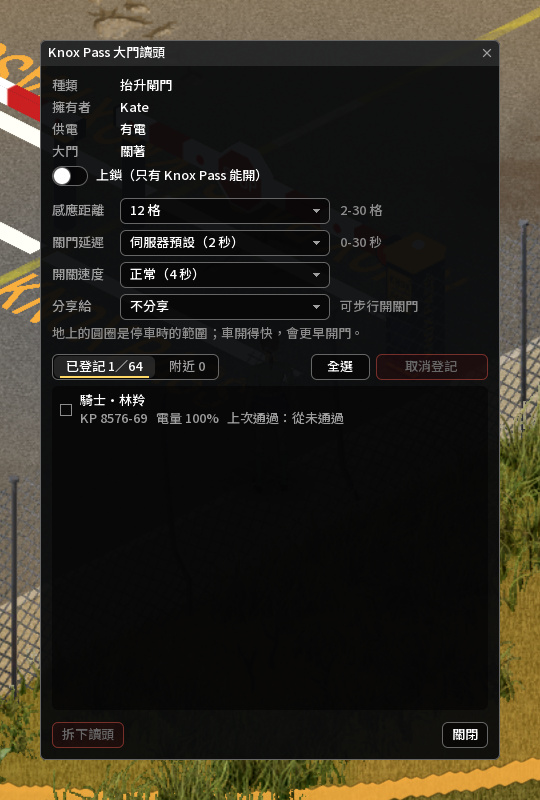
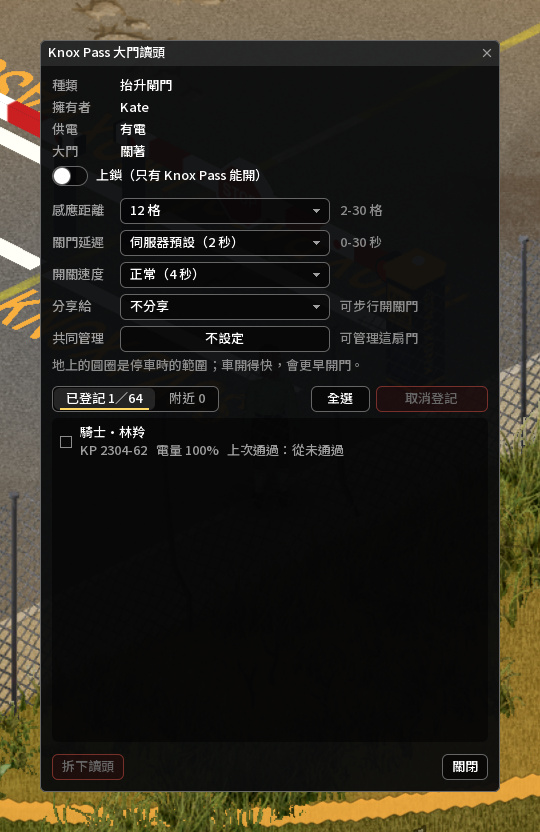
發布 42.21.0-0.5.0
共同管理者、安全屋外的讀頭沙盒選項、地圖手錶的 Knox Pass 感應模組；物品說明分行、下拉清單不透明。簡介三語加上選裝地圖手錶與新功能，兩份指南補共同管理者、感應模組、新沙盒選項與常見問題；指南與作品頁的 05、09、15 重拍。

diff --git a/STEAM_GUIDE_EN.md b/STEAM_GUIDE_EN.md
@@ -1,7 +1,7 @@
 <!-- 指南網址：https://steamcommunity.com/sharedfiles/filedetails/?id=3817842691 -->
 <!-- Steam guide source (English): the full reference for this mod; the Workshop description only summarizes. Format and sync: pz-family-docs/release.md「完整說明：Steam 指南」 -->
 <!-- 標題：📖 Knox Pass Mod Guide: Tags, Readers & Hands-free Gates -->
-<!-- 摘要：Illustrated guide to the Minidoracat Knox Pass mod: the Vehicle Tag, the Gate Reader, shell colors, boom barriers and gates you build, hands-free opening and closing, the gate lock and opening on foot, how to get them, plus server settings and FAQ. -->
+<!-- 摘要：Illustrated guide to the Minidoracat Knox Pass mod: the Vehicle Tag, the Gate Reader, co-managers, the Map Watch sensor module, shell colors, boom barriers and gates you build, hands-free opening and closing, the gate lock and opening on foot, how to get them, plus server settings and FAQ. -->
 === 🚀 Quick start
 [b]繁體中文版：[/b][url=https://steamcommunity.com/sharedfiles/filedetails/?id=3817842603]感應大門 MOD 完整說明[/url]
 
@@ -43,19 +43,20 @@ Knox Pass lets you drive home without getting out: put a tag in the car and a re
 === 🧰 Gate Reader
 [list]
 [*] [b]Where it fits[/b]: map doors, fence gates, double doors, garage doors, player-built doors and gates, and Knox Pass's own roll-up garage doors, two-story roll-up doors and two-story gates (see "Build your own gates").
-[*] [b]Installing[/b]: right-click the gate with the reader and a screwdriver. Whoever installs it owns it.
+[*] [b]Installing[/b]: right-click the gate with the reader and a screwdriver. Whoever installs it owns it. The server can limit readers to your own safehouse (see "Server settings").
 [*] [b]Where it shows[/b]: on the gate post; on the face of the pillar for two-story gates, and on top of the cabinet for boom barriers and double boom barriers. It doesn't block people or cars.
-[*] [b]Removing[/b]: the owner can take the reader back. If Knox Pass has the gate open, it closes it first and restores the original lock.
+[*] [b]Removing[/b]: the owner or a server admin can take the reader back with a screwdriver. If Knox Pass has the gate open, it closes it first and restores the original lock. Co-managers can't remove it.
 [/list]
 [h3]Management window[/h3]
 {{img:05-manage-window-en.jpg}}
 [list]
+[*] [b]Who can open it[/b]: the owner, co-managers and server admins. For anyone else the window closes right away and says why.
 [*] [b]It shows[/b]:
 [list]
 [*] gate type, owner, power, lock
-[*] this gate's read range, close delay, speed and sharing
-[*] "Registered" tab: registered cars (charge, last pass), most recent pass first
-[*] "Nearby" tab: unregistered cars with a tag within 15 tiles, nearest first
+[*] this gate's read range, close delay, speed, sharing and co-managers
+[*] "Registered" tab: registered cars and watch modules (charge, last pass), most recent pass first; 64 entries at most, cars and modules together
+[*] "Nearby" tab: unregistered cars with a tag and people wearing a sensor module within 15 tiles, nearest first
 [/list]
 [*] [b]Read range[/b]: while the window is open, an amber circle on the ground shows this gate's read range (the range for a car standing still; faster cars open it sooner).
 [*] [b]Several at once[/b]: each car has a checkbox; click a car to check it, or "Select all" for the whole tab. "Register (N)" or "Unregister (N)" handles them in one go; unregistering asks first.
@@ -63,12 +64,22 @@ Knox Pass lets you drive home without getting out: put a tag in the car and a re
 {{img:15-range-circle-en.jpg}}
 [h3]Per-gate settings[/h3]
 [list]
-[*] [b]Read range and close delay[/b]: the owner or an admin picks them from two dropdowns in the window, limited to what the server allows (2–30 tiles and 0–30 seconds by default).
+[*] [b]Read range and close delay[/b]: the owner, a co-manager or an admin picks them from two dropdowns in the window, limited to what the server allows (2–30 tiles and 0–30 seconds by default).
 [*] [b]Server default[/b]: follows the sandbox setting.
 [*] [b]If the server narrows the limits[/b]: gates that were set follow the new limits and keep their value.
 [*] [b]Speed[/b]: boom barriers, double boom barriers, two-story roll-up doors and two-story gates can be set to [b]Normal (4 s)[/b] or [b]Fast (2.5 s)[/b] under "Speed", and every player sees the same speed.
 [*] [b]Fixed speed[/b]: one-story roll-up doors and vanilla doors; the dropdown says "Not adjustable".
 [*] [b]Share with[/b]: pick [b]Faction[/b], [b]Safehouse[/b] or [b]Faction + safehouse[/b] to let teammates open and close this gate on foot without a tag (see "Opening and closing on foot"). Not shared by default.
+[/list]
+[h3]Co-managers[/h3]
+[list]
+[*] [b]Open the list[/b]: press the button on the "Co-managers" row of the management window.
+[*] [b]Adding someone[/b]: type a player account in the search box, pick them from the dropdown and press "Add"; up to 8 people.
+[*] [b]Who you can find[/b]: online players show up after typing part of the account; offline players need the full account (same upper/lower case); an account that has never been online on this server can't be added, so wait until they log in once.
+[*] [b]Your faction[/b]: turn on "Members of faction "…"" and everyone in the owner's faction counts as a co-manager; people who join later count too, and leaving the faction ends it.
+[*] [b]What they can do[/b]: open the management window, change settings, register and unregister, lock, open and close on foot, and repaint the reader.
+[*] [b]What they can't[/b]: remove the reader or change the co-manager list; only the owner and server admins can.
+[*] Works in multiplayer only.
 [/list]
 === 🧰 Shell colors and repainting
 {{img:11-shell-colors-en.jpg}}
@@ -95,7 +106,7 @@ Knox Pass lets you drive home without getting out: put a tag in the car and a re
 [list]
 [*] [b]In your inventory[/b]: right-click a tag or reader you carry (bags count) → "Repaint" → pick a color. Colors you lack paint or a paintbrush for are grayed out; hover to see what's missing.
 [*] [b]A repainted tag[/b]: keeps its charge and its registration at every gate, so it opens the same gates.
-[*] [b]A reader on a gate[/b]: the owner or an admin right-clicks the gate → Knox Pass → "Repaint"; your character walks to the gate and paints it, and registrations stay as they are.
+[*] [b]A reader on a gate[/b]: the owner, a co-manager or an admin right-clicks the gate → Knox Pass → "Repaint"; your character walks to the gate and paints it, and registrations stay as they are.
 [*] [b]A tag in a car[/b]: the windshield shows its color. To repaint it, remove it in the mechanics panel first, then install it again.
 [*] [b]Can't be repainted[/b]: the built-in reader of a boom barrier or double boom barrier.
 [/list]
@@ -205,7 +216,7 @@ Knox Pass lets you drive home without getting out: put a tag in the car and a re
 {{img:06-gate-menu-en.jpg}}
 [h3]Gate lock[/h3]
 [list]
-[*] [b]Turning it on[/b]: the owner can turn on "Lock (only Knox Pass opens it)" in the right-click menu or the window.
+[*] [b]Turning it on[/b]: the owner, a co-manager or an admin can turn on "Lock (only Knox Pass opens it)" in the right-click menu or the window. When the server doesn't allow locking outside safehouses, the option is grayed out for gates outside one and says why; a gate that is already locked can still have its lock turned off.
 [*] [b]Once locked[/b]: it can't be opened bare-handed, and zombies that open doors can't open it either.
 [*] [b]Opening and closing[/b]: boom barriers, garage roll-up doors, two-story gates and garage doors stay locked while open, so without the key use "Close with Knox Pass" to shut them; other gates are unlocked to open and locked again once closed.
 [*] [b]Original keys[/b]: a house door's original key keeps working, so whoever holds that key can still open it.
@@ -215,10 +226,29 @@ Knox Pass lets you drive home without getting out: put a tag in the car and a re
 [h3]Opening and closing on foot[/h3]
 [list]
 [*] [b]Open with Knox Pass[/b]: right-click → Knox Pass → "Open with Knox Pass".
-[*] [b]Who can use it[/b]: the owner, admins, teammates the owner shares the gate with, and anyone carrying a registered, charged tag.
+[*] [b]Who can use it[/b]: the owner, co-managers, admins, teammates the owner shares the gate with, anyone carrying a registered, charged tag, and anyone wearing a registered watch sensor module.
 [*] [b]Sharing with teammates[/b]: once the owner picks a faction or safehouse under "Share with" in the management window, the leader and members of the owner's faction, or anyone in a safehouse with the owner, can use it; it stops when the owner leaves that faction or safehouse. Teammates can only open and close the gate; they can't register cars or change settings. Multiplayer only.
 [*] [b]At least 5 seconds[/b]: a gate opened on foot stays open at least 5 seconds, so you can walk through even with a very short close delay.
 [*] [b]Close with Knox Pass[/b]: while the gate stands open (for example after someone opened it with the original key), right-click → Knox Pass → "Close with Knox Pass"; it closes and locks again. The same people who can open it on foot can use it.
+[/list]
+=== 🧰 Map Watch sensor module
+Needs [url=https://steamcommunity.com/sharedfiles/filedetails/?id=3816406671]Minidoracat MiniMap - Map Watch[/url] (42.21.0-0.3.0 or later); without the Map Watch nothing changes.
+[list]
+[*] [b]Crafting[/b]: "Craft Knox Pass Sensor Module (for the Map Watch)"; see "Getting them".
+[*] [b]Into the watch[/b]: it goes in a standard slot of the Map Watch and adds 10% power use.
+[*] [b]Registering[/b]: with the wearer within 15 tiles of the gate, check "Watch module (name)" on the "Nearby" tab of the management window and press "Register".
+[*] [b]Walk up and it opens[/b]: walk toward the gate wearing a registered module and it opens within 3 tiles; after you pass it closes with the gate's close delay. Standing still or walking along the gate doesn't open it.
+[*] [b]Driving counts too[/b]: if the driver wears a registered module, the gate opens for any car.
+[*] [b]Right-click knows it[/b]: "Open with Knox Pass" and "Close with Knox Pass" accept the module you wear.
+[*] [b]When it does nothing[/b]: the watch isn't worn, has no power, or the module's slot is disabled.
+[*] [b]When the gate can't open[/b]: if the reader has no power or the doorway is blocked, a note above your head and at the top right says why, once per gate every 30 seconds.
+[*] [b]Registered list[/b]: shows who is wearing it; when nobody is, who passed last and when. It never shows where the module is.
+[*] [b]Per gate[/b]: turn off "Registered watch modules open it on approach" in the management window and walking no longer opens that gate; driving and right-click still accept the module.
+[/list]
+[h3]Map markers[/h3]
+[list]
+[*] The minimap and the world map mark the gates your module opens.
+[*] In the map settings, the "Knox Pass" section under "Add-ons" turns the markers off, sets their size, and chooses whether to show gate types.
 [/list]
 === 🧰 Getting them
 {{img:08-craft-recipes-en.jpg}}
@@ -228,11 +258,13 @@ All crafted with a screwdriver:
 [tr][td]Vehicle Tag[/td][td]Electrical 2[/td][td]A pager or TV remote, 2 electronics scrap, 1 battery[/td][td]Gas station storage, car supply stores, mechanic electrical shelves, electronics stores[/td][/tr]
 [tr][td]Gate Reader[/td][td]Electrical 4[/td][td]A radio receiver, 3 electronics scrap, 2 electrical wires[/td][td]Electrician tool boxes, electronics crates, hardware stores, mechanics[/td][/tr]
 [tr][td]Boom Barrier Kit[/td][td]Electrical 4[/td][td]1 Gate Reader (any color), 2 iron pipes, 1 steel sheet, 2 electrical wires[/td][td]Crafting only; it isn't found as loot[/td][/tr]
+[tr][td]Knox Pass Sensor Module[/td][td]Electrical 3[/td][td]1 Vehicle Tag (any color), 2 electronics scrap[/td][td]Crafting only, with the Map Watch installed[/td][/tr]
 [/table]
 [list]
 [*] [b]Looted color[/b]: random.
 [*] [b]Craft in color[/b]: add one use of paint and a paintbrush to craft a tag or reader in that color (see "Shell colors and repainting").
 [*] [b]Gates you build[/b]: roll-up garage doors, two-story roll-up doors, two-story gates and double boom barriers all come from the build menu; see "Build your own gates" for materials and skills.
+[*] [b]Sensor module[/b]: only craftable with the Map Watch installed, and not when the server turns off "Registered watch modules open gates on approach".
 [/list]
 === ⚙ Server settings
 {{img:09-sandbox-options-en.jpg}}
@@ -249,6 +281,9 @@ Sandbox page "Minidoracat Knox Pass":
 [tr][td]Vehicle tag drain multiplier (percent)[/td][td]100%[/td][td]0–500%[/td][/tr]
 [tr][td]Allow crafting Knox Pass items[/td][td]On[/td][td][/td][/tr]
 [tr][td]Spawn Knox Pass items in world loot[/td][td]On[/td][td][/td][/tr]
+[tr][td]Readers outside safehouses[/td][td]No limit[/td][td]No limit / No locking / No installing[/td][/tr]
+[tr][td]Registered watch modules open gates on approach[/td][td]On[/td][td][/td][/tr]
+[tr][td]Watch module range (tiles)[/td][td]3[/td][td]1–8[/td][/tr]
 [/table]
 [list]
 [*] [b]Reader range[/b]: the range around the gate while the car stands still; owners can set each gate to a value within the limits.
@@ -257,6 +292,9 @@ Sandbox page "Minidoracat Knox Pass":
 [*] [b]Self-driving early open distance[/b]: when a car under Minidoracat AutoDrive heads for the gate (the gate within about 12 degrees of its direction of travel), the gate opens once the car is this close. The server must have the gate's area loaded first, so in practice it opens about 70–130 tiles out. 0 treats it like any other car.
 [*] [b]Gate readers need power[/b]: grid power or a generator both count, and outdoor gates do get grid power.
 [*] [b]Tag drain multiplier[/b]: 0 means it never runs out.
+[*] [b]Readers outside safehouses[/b]: applies when a gate isn't in the reader owner's safehouse, multiplayer only. "No locking" = the Knox Pass lock can't be turned on, opening works as usual; "No installing" = readers only go in your own safehouse. Gates already locked stay locked, and the owner, a co-manager or an admin can turn the lock off. This stops people from putting a reader on someone else's door and locking it.
+[*] [b]Watch modules[/b]: need the Map Watch. When off, walking doesn't open gates and the module can't be crafted; driving and right-click opening still accept the module. The range is how close to the gate line it opens.
+[*] [b]Server admins[/b]: roles that can manage safehouses (moderator and admin by default) can manage every reader; if the server owner changed role permissions, the actual permissions apply.
 [/list]
 === ⚠ Known limitations
 [list]
@@ -291,6 +329,8 @@ Check that:
 [h3]Can other players open my gate?[/h3]
 [list]
 [*] Only the tags you registered can; if you share the gate with your faction or safehouse in the management window, those teammates can open and close it on foot too.
+[*] Co-managers you add can open and close it, and change its settings and registrations.
+[*] Anyone wearing a watch sensor module registered at this gate opens it by walking up.
 [*] Once locked, neither bare hands nor zombies can open it, except someone holding that door's original key.
 [*] An unlocked gate can still be opened by hand as usual.
 [/list]
@@ -299,15 +339,26 @@ Check that:
 [*] Not one with the Knox Pass lock on.
 [*] An unlocked gate can be opened by zombies when the server lets zombies open doors, as in vanilla.
 [/list]
+[h3]My teammate can't open the management window?[/h3]
+[list]
+[*] Only the owner, co-managers and server admins can; sharing with a faction or safehouse only covers opening and closing on foot.
+[*] To manage the gate together, add them under "Co-managers".
+[/list]
+[h3]Can't find a teammate's account?[/h3]
+[list]
+[*] Offline players need the full account (same upper/lower case).
+[*] An account that has never been online on this server can't be found; wait until they log in once.
+[/list]
 [h3]Is it safe in multiplayer?[/h3]
 [list]
-[*] Opening, closing, locking and registering are all checked by the server, and the registrations live only on the server.
+[*] Opening, closing, locking, registering and the co-manager list are all checked by the server, and that data lives only on the server.
 [/list]
 [h3]Removing this mod?[/h3]
 [list]
 [*] First turn off "Lock (only Knox Pass opens it)" on every locked gate, or take its reader back; otherwise the gate stays locked after removal and can only be broken down unless someone has its original key.
 [*] Also dismantle Knox Pass barriers, roll-up doors and gates first, as they may not display or work after removal.
 [*] Tags in cars and all other Knox Pass items disappear.
+[*] Take sensor modules out of Map Watches first, too; after removal they can't be taken out and keep the slot taken.
 [/list]
 === 💬 Feedback
 [list]

diff --git a/CHANGELOG.md b/CHANGELOG.md
@@ -12,13 +12,13 @@
 
 格式基於 [Keep a Changelog](https://keepachangelog.com/zh-TW/1.1.0/)，版本號遵循 `{PZ版本}-{主版本}.{次版本}.{修訂}` 格式。
 
-## [Unreleased]
+## [42.21.0-0.5.0] - 2026-10-13
 
 ### 新增
 
 - **共同管理者：讓隊友一起管理大門**：讀頭管理視窗多了「共同管理」，擁有者或伺服器管理員可以加入最多 8 位共同管理者，也可以交給擁有者自己的陣營（之後加入陣營的人也算，離開陣營就不算）。加人時在搜尋框輸入玩家帳號，下拉只列出伺服器上確實存在的玩家：上線中的玩家打一部分帳號就找得到，離線的玩家要打完整帳號（大小寫相同）；從沒在伺服器上線過的帳號加不進來，請等對方上線一次。共同管理者能打開管理視窗、改設定、登記車輛、上鎖與步行開關門，但不能拆讀頭，也不能改共同管理者名單。多人模式才有作用。
 - **伺服器可以限制安全屋外的讀頭**：沙盒選項新增「安全屋外的讀頭」：不限制（預設，跟以前一樣）、不能上鎖、不能安裝。只在門不在讀頭擁有者的安全屋裡時套用：選「不能上鎖」時安全屋外的門開不了 Knox Pass 門鎖，選「不能安裝」時只能在自己的安全屋裡裝讀頭；右鍵選單與管理視窗會先變灰並寫出原因，已經上鎖的門照樣能關掉門鎖。可用來防止有人在別人的門上裝讀頭再上鎖。多人模式才有作用。
-- **地圖手錶的 Knox Pass 感應模組：戴著錶走近大門就開**：裝了 Minidoracat 地圖手錶時，可以用一顆感應盒加兩個電子零件做出「Knox Pass 感應模組」（電工 3 級，配方名稱寫著「地圖手錶用」），裝進手錶的槽位。在大門讀頭管理視窗的「附近」勾選 15 格內戴著模組的人，登記後，戴著這顆模組走向那扇門、離門 3 格內門就會自己打開，走過去照關門延遲關上；站著不動或沿著門走不會開。開車時駕駛戴著也算，任何一台車都行；右鍵「用 Knox Pass 開門」也認得它。手錶沒戴、沒電或槽位停用時模組沒有作用。「已登記」會寫出誰正戴著，沒人戴時寫上次是誰、何時通過，不會顯示模組在哪裡。擁有者可以替每扇門關掉「已登記的手錶模組走近就開」；伺服器可以在沙盒整個關掉，或調整感應距離（1 到 8 格，預設 3）。小地圖與世界地圖會標出你戴著的模組能開的大門，可以在地圖設定「擴充功能」的 Knox Pass 分類關掉或調整大小。沒裝地圖手錶時一切照舊。
+- **地圖手錶的 Knox Pass 感應模組：戴著錶走近大門就開**：裝了 Minidoracat 地圖手錶（42.21.0-0.3.0 以上）時，可以用一顆感應盒加兩個電子零件做出「Knox Pass 感應模組」（電工 3 級，配方名稱寫著「地圖手錶用」），裝進手錶的槽位。在大門讀頭管理視窗的「附近」勾選 15 格內戴著模組的人，登記後，戴著這顆模組走向那扇門、離門 3 格內門就會自己打開，走過去照關門延遲關上；站著不動或沿著門走不會開。開車時駕駛戴著也算，任何一台車都行；右鍵「用 Knox Pass 開門」也認得它。手錶沒戴、沒電或槽位停用時模組沒有作用。「已登記」會寫出誰正戴著，沒人戴時寫上次是誰、何時通過，不會顯示模組在哪裡。擁有者可以替每扇門關掉「已登記的手錶模組走近就開」；伺服器可以在沙盒整個關掉，或調整感應距離（1 到 8 格，預設 3）。小地圖與世界地圖會標出你戴著的模組能開的大門，可以在地圖設定「擴充功能」的 Knox Pass 分類關掉或調整大小。沒裝地圖手錶時一切照舊。
 
 ### 變更
 
@@ -27,8 +27,11 @@
 - **裝拆讀頭要帶螺絲起子**：伺服器會再確認身上有沒壞的螺絲起子才裝上或拆下讀頭（強化了伺服器端驗證）。
 - **開不了門時寫出怎麼排除**：讀頭沒電時提示大門要接上電網或發電機；門口被擋時提示有人或東西擋住、或門釘了木板。戴著模組走近卻開不了時，頭上與右上會提示一次原因（同一扇門 30 秒一次）。提示框最多顯示 5 行，英文的長句不會再被截掉。
 - **登記上限改成車與手錶模組合計 64 項**：已登記清單裡車與模組放在一起，照最近通過排序；登記、取消登記的提示改說「項」。
-- **物品說明分行顯示**：感應盒、讀頭、抬升閘門組件與感應模組的說明，英文、繁中、簡中、日文改成分行（其他語言原本就分行），滑過物品時的提示框不會再拉成一長條（英文的閘門組件原本約 1300 像素寬）。
-- **管理視窗的下拉清單改成不透明**：展開感應距離、關門延遲、開關速度或分享對象時，不會再透出底下按鈕與說明的字。
+
+### 修正
+
+- **物品說明拉成一長條**：英文、繁中、簡中、日文滑過感應盒、讀頭、抬升閘門組件時，說明擠成一整行，提示框很寬（英文的閘門組件約 1300 像素）。現在照其他語言分行顯示。
+- **管理視窗的下拉清單透出底下的字**：展開感應距離、關門延遲、開關速度或分享對象時，清單是半透明的，看得到底下按鈕與說明的字。現在改成不透明。
 
 > 技術要點：共同管理者存在伺服器的讀頭帳本（每扇門一份帳號名單與一個陣營開關），加入時記下伺服器看過的 SteamID。伺服器另外記下上線過的帳號（只增不減），用來判斷帳號存在；更新前就裝了讀頭的擁有者會先放進去。管理員判定用角色的 CanSetupSafehouses（和原版安全屋加人介面同一個判斷）。「安全屋外的讀頭」看大門所在格是否在讀頭擁有者（安裝時是安裝者）身為屋主或成員的安全屋裡。手錶模組要地圖手錶 API 2 版（讀模組的物品資料）：模組的憑證是物品資料裡的序號，裝進手錶、拆下來都跟著走；伺服器只認戴在身上、手錶有電、槽位有效的模組，登記時也重查戴著它的人在 15 格內。伺服器只把你戴著的模組登記過的門推給你自己（小地圖與 `KnoxPassAPI.willOpenFor` 用）；`willOpenFor` 認得駕駛戴著的模組，模組登記了這扇門但手錶沒作用時原因是 `WatchOff`。
 

diff --git a/STEAM_CHANGELOG.md b/STEAM_CHANGELOG.md
@@ -1,22 +1,28 @@
-[h1]Minidoracat Knox Pass for B42 42.21.0-0.4.0[/h1]
-[i]2026-10-12[/i]
+[h1]Minidoracat Knox Pass for B42 42.21.0-0.5.0[/h1]
+[i]2026-10-13[/i]
 
 [h3]✨ 新增[/h3]
 [list]
-[*] [b]分享給隊友[/b]：右鍵大門 → Knox Pass → 管理讀頭，「分享給」可以選同陣營、同安全屋或兩者。選了之後，擁有者陣營的成員、或和擁有者同一間安全屋的人，不用帶感應盒也能用右鍵「用 Knox Pass 開門」「用 Knox Pass 關門」，門鎖照樣擋住其他人。
-[*] [b]隊友只能開關門[/b]：登記車輛、門鎖與各項設定仍只有擁有者和管理員能改，開車自動開門也照舊只認登記過的感應盒。擁有者離開那個陣營或安全屋，原本的隊友就不能再開。預設不分享，多人模式才有作用。
-[*] [b]一次登記或取消登記好幾台車[/b]：管理視窗的每台車左邊多了勾選框，點一下勾選，「全選」一次勾起整頁。勾好後按「登記（N）」或「取消登記（N）」一次處理，取消登記前會先問一次。
-[*] [b]沒登記成功會說原因[/b]：有車太遠或登記已滿 64 台時，提示會寫出成功幾台、沒成功幾台和原因。
-[/list]
-
-[h3]🔧 修正[/h3]
-[list]
-[*] [b]上鎖的閘門與車庫門旁邊有好幾位玩家時，大家一起卡頓、斷線[/b]：多人模式下，開了門鎖的抬升閘門、車庫捲門、兩層樓大門，以及裝了讀頭的上鎖車庫門，每次開關都會讓附近每位玩家把門的狀態傳回伺服器；有人畫面卡頓時，門會被翻回去、自己開開關關，附近的人一起卡到斷線。現在這幾種門開關時不再動門鎖，不會再這樣。0.2.0 起有這個問題。
+[*] [b]共同管理者[/b]：管理視窗多了「共同管理」，擁有者或伺服器管理員可以加入最多 8 位隊友，或交給擁有者的陣營。共同管理者能改設定、登記車輛、上鎖與開關門，但不能拆讀頭，也不能改這份名單。多人模式才有作用。
+[*] [b]用搜尋加人[/b]：在搜尋框輸入帳號，下拉只列出伺服器上確實有的玩家。上線中的打一部分就找得到，離線的要打完整帳號（大小寫相同）；從沒上線過的帳號要等對方上線一次。
+[*] [b]限制安全屋外的讀頭[/b]：沙盒新增「安全屋外的讀頭」：不限制（預設）、不能上鎖、不能安裝。可防止有人在別人的門上裝讀頭再上鎖；已經上鎖的門照樣能關掉門鎖。
+[*] [b]地圖手錶的 Knox Pass 感應模組[/b]：裝了 Minidoracat 地圖手錶（42.21.0-0.3.0 以上）時，可以做出「Knox Pass 感應模組」裝進手錶。在管理視窗的「附近」登記戴著模組的人，之後戴著它走向那扇門，離門 3 格內就自己打開，走過去照延遲關上。
+[*] [b]開車時模組也算[/b]：駕駛戴著登記過的模組，開哪台車都會開門；右鍵「用 Knox Pass 開門」也認得它。手錶沒戴、沒電或槽位停用時模組沒有作用。
+[*] [b]地圖標出你能開的門[/b]：小地圖與世界地圖會標出你戴著的模組能開的大門，可在地圖設定「擴充功能」的 Knox Pass 分類關掉或調整大小。
+[*] [b]手錶模組可以關掉[/b]：擁有者可以替每扇門關掉「已登記的手錶模組走近就開」；伺服器可以在沙盒整個關掉，或調整感應距離（1–8 格）。
 [/list]
 
 [h3]🔄 變更[/h3]
 [list]
-[*] [b]上鎖的閘門與車庫門開著時也維持上鎖[/b]：沒有鑰匙的人不能用手關上（原版的「關門」會灰掉），要關請用右鍵「用 Knox Pass 關門」。開關門的聲音改從門的位置發出。一般門、雙開門與玩家建造的門照舊。
-[*] [b]車輛清單分成兩頁[/b]：管理視窗改成「已登記」「附近」兩個分頁，一次看得到約 7 台。「附近」只列還沒登記的車，離大門近的在前；「已登記」把最近通過的排前面，很久沒用的沉到最後。原本的「移除」改叫「取消登記」。
-[*] [b]讀不到資料會說明原因[/b]：在大門 3 格外打開管理視窗，不會再一直停在「讀取中」，而是寫出原因，走進 3 格內就自動重新讀取。其他失敗的提示也寫出下一步怎麼做。
+[*] [b]只有能管理的人打得開管理視窗[/b]：擁有者、共同管理者與伺服器管理員才看得到設定與車輛清單；其他人打開時視窗會關掉並說明原因。陣營或安全屋的分享照舊只給步行開關門。
+[*] [b]伺服器管理員改看「能管理安全屋」的角色[/b]：預設是 moderator 與 admin；gm 與 observer 不再能改別人的讀頭。
+[*] [b]裝拆讀頭要帶螺絲起子[/b]：伺服器會再確認一次（強化了伺服器端驗證）。
+[*] [b]開不了門時寫出怎麼排除[/b]：讀頭沒電時提示要接電網或發電機；門口被擋時提示有人或東西擋住、或門釘了木板。提示最多顯示 5 行，長句不再被截掉。
+[*] [b]登記上限改成車與手錶模組合計 64 項[/b]：已登記清單裡車與模組放在一起，照最近通過排序。
+[/list]
+
+[h3]🔧 修正[/h3]
+[list]
+[*] [b]物品說明拉成一長條[/b]：英文、繁中、簡中、日文滑過感應盒、讀頭、閘門組件時，說明擠成一整行。現在照其他語言分行顯示。
+[*] [b]下拉清單透出底下的字[/b]：管理視窗展開感應距離、關門延遲、開關速度或分享對象時，清單是半透明的。現在改成不透明。
 [/list]

diff --git a/STEAM_DESCRIPTION_JP.md b/STEAM_DESCRIPTION_JP.md
@@ -8,6 +8,7 @@
 [h2]📦 必要なMOD[/h2]
 [list]
 [*] UIフレームワーク（必須）：[url=https://steamcommunity.com/sharedfiles/filedetails/?id=3789836701]Minidoracat UI Library[/url]
+[*] [b]任意：[/b][url=https://steamcommunity.com/sharedfiles/filedetails/?id=3816406671]Minidoracat ミニマップ - マップウォッチ[/url]（ウォッチに Knox Pass センサーモジュールを付けると、歩いて近づくだけでゲートが開きます）
 [*] [b]途中追加・削除：[/b]追加は可能。外す前にガイドをお読みください。そのままだと施錠した門が開かなくなります
 [*] [b]対応言語：[/b]繁體中文、简体中文、English、日本語、한국어、Русский、Español、Português、Türkçe、Français、Polski、Deutsch（翻訳の問題はお知らせください）
 [/list]
@@ -22,16 +23,16 @@
 
 [h2]✨ 主な機能[/h2]
 [list]
-[*] [b]ボタン不要[/b]：運転席で近づくとゲートが開き、離れると閉まります
-[*] [b]ゲートを自作[/b]：遮断機、ガレージシャッター、2 階建てゲート。幅広タイプは車を何台も並べて通せます
-[*] [b]走行中も検知[/b]：速いほど早く開き、自動運転の車には遠くから開けておきます
+[*] [b]ボタン不要[/b]：運転席で近づくとゲートが開き（速いほど早めに）、離れると閉まります
+[*] [b]歩いても開く[/b]：マップウォッチに Knox Pass センサーモジュールを付ければ、歩いて近づくだけで開きます
+[*] [b]既存のゲートも自作も[/b]：フェンスゲート、両開き扉、ガレージ扉に付くほか、遮断機・ガレージシャッター・2 階建てゲートも建てられます
 [*] [b]本物の車両部品[/b]：バニラ車にもMOD車にも付き、タグごと別の車へ移せます
 [*] [b]ゲートごとの登録[/b]：登録した車だけが通れ、感知距離・閉まるまでの時間・開閉速度・ロックもゲートごとに設定できます
-[*] [b]多くのゲートに対応[/b]：フェンスゲート、両開き扉、ガレージ扉、プレイヤーが建てた扉
+[*] [b]仲間と共有[/b]：派閥やセーフハウスに共有したり、共同管理者を追加して一緒に管理できます
 [*] [b]7色の外装[/b]：バニラの塗料で好きな色を製作、手持ちのタグとリーダーも塗り替え可能
 [*] [b]衝突・挟み込み防止[/b]：開かないゲートは手前で知らせ、車や人がいる間は閉まりません
 [/list]
-📖 [b]リーダーの取り付け、車両の登録、ゲートの自作、ゲートごとの設定、外装の色、入手方法、よくある質問：[/b][url=https://steamcommunity.com/sharedfiles/filedetails/?id=3817842691]Knox Pass Mod Guide: Tags, Readers & Hands-free Gates[/url]（英語）
+📖 [b]リーダーの取り付け、車両の登録、共同管理者、ウォッチのセンサーモジュール、ゲートの自作、ゲートごとの設定、外装の色、入手方法、よくある質問：[/b][url=https://steamcommunity.com/sharedfiles/filedetails/?id=3817842691]Knox Pass Mod Guide: Tags, Readers & Hands-free Gates[/url]（英語）
 
 [h2]🔗 Minidoracat 全シリーズ[/h2]
 ほかの作品は[url=https://steamcommunity.com/sharedfiles/filedetails/?id=3809297109]Minidoracat コレクション[/url]からどうぞ。必要なものだけ購読してください。

diff --git a/STEAM_DESCRIPTION_EN.md b/STEAM_DESCRIPTION_EN.md
@@ -8,6 +8,7 @@ Put a tag in your car and a reader on your gate: drive up and the gate opens by 
 [h2]📦 Requirements[/h2]
 [list]
 [*] Requires the UI framework: [url=https://steamcommunity.com/sharedfiles/filedetails/?id=3789836701]Minidoracat UI Library[/url]
+[*] [b]Optional:[/b] [url=https://steamcommunity.com/sharedfiles/filedetails/?id=3816406671]Minidoracat MiniMap - Map Watch[/url] (wear the Knox Pass Sensor Module and gates open as you walk up)
 [*] [b]Add/remove mid-save:[/b] safe to add; read the guide before removing it, or locked gates stay locked
 [*] [b]Languages:[/b] 繁體中文, 简体中文, English, 日本語, 한국어, Русский, Español, Português, Türkçe, Français, Polski, Deutsch (please report any translation issues)
 [/list]
@@ -22,16 +23,16 @@ Put a tag in your car and a reader on your gate: drive up and the gate opens by 
 
 [h2]✨ Features[/h2]
 [list]
-[*] [b]Hands-free gates[/b]: drive up from the driver's seat and the gate opens, then closes after you leave
-[*] [b]Build your own gates[/b]: boom barriers, roll-up garage doors and two-story gates, wide enough for several cars side by side
-[*] [b]Reads on the move[/b]: the faster you drive, the earlier it opens; self-driving cars find it already open
+[*] [b]Hands-free gates[/b]: drive up from the driver's seat and the gate opens, earlier the faster you go, then closes after you leave
+[*] [b]Walk up too[/b]: wear the Knox Pass Sensor Module in a Map Watch and gates open as you walk toward them
+[*] [b]Map gates or your own[/b]: fits fence gates, double doors and garage doors, or build boom barriers, roll-up doors and two-story gates
 [*] [b]A real vehicle part[/b]: fits vanilla and modded cars, and moves with the tag to another car
 [*] [b]Per-gate registration[/b]: only the cars you register get through, and each gate has its own range, close delay, speed and lock
-[*] [b]Works with many gates[/b]: fence gates, double doors, garage doors and player-built doors
+[*] [b]Share with your team[/b]: share a gate with your faction or safehouse, or add co-managers to run it with you
 [*] [b]7 shell colors[/b]: craft tags and readers in color with vanilla paint, or repaint the ones you have
 [*] [b]No crashes, no pinching[/b]: warns you ahead of a gate that won't open, and never closes on a car or a person
 [/list]
-📖 [b]Installing readers, registering cars, building gates, per-gate settings, shell colors, getting the items and FAQ:[/b] [url=https://steamcommunity.com/sharedfiles/filedetails/?id=3817842691]Knox Pass Mod Guide: Tags, Readers & Hands-free Gates[/url]
+📖 [b]Installing readers, registering cars, co-managers, the watch sensor module, building gates, per-gate settings, shell colors, getting the items and FAQ:[/b] [url=https://steamcommunity.com/sharedfiles/filedetails/?id=3817842691]Knox Pass Mod Guide: Tags, Readers & Hands-free Gates[/url]
 
 [h2]🔗 All Minidoracat Mods[/h2]
 Browse the rest in the [url=https://steamcommunity.com/sharedfiles/filedetails/?id=3809297109]Minidoracat collection[/url] and subscribe to what you need.

diff --git a/STEAM_DESCRIPTION.md b/STEAM_DESCRIPTION.md
@@ -8,6 +8,7 @@
 [h2]📦 需要安裝[/h2]
 [list]
 [*] 必裝 UI 框架：[url=https://steamcommunity.com/sharedfiles/filedetails/?id=3789836701]Minidoracat UI Library[/url]
+[*] [b]選裝：[/b][url=https://steamcommunity.com/sharedfiles/filedetails/?id=3816406671]Minidoracat 小地圖 - 地圖手錶[/url]（戴著 Knox Pass 感應模組走近大門就開）
 [*] [b]中途加入／移除：[/b]可加入；移除前請先看完整說明，否則上鎖的門會打不開
 [*] [b]介面語言：[/b]繁體中文、简体中文、English、日本語、한국어、Русский、Español、Português、Türkçe、Français、Polski、Deutsch（翻譯有問題請回報）
 [/list]
@@ -22,16 +23,16 @@
 
 [h2]✨ 主要功能[/h2]
 [list]
-[*] [b]免按鍵開門[/b]：坐駕駛座開近就開門，駛離後自動關
-[*] [b]自己蓋大門[/b]：抬升閘門、車庫捲門與兩層樓大門，寬門可並排過多台車
-[*] [b]行進中也感應[/b]：車速越快越早開門，自駕車遠遠就開好
+[*] [b]免按鍵開門[/b]：坐駕駛座開近就開門，車速越快越早開，駛離後自動關
+[*] [b]走近也能開[/b]：戴上地圖手錶的 Knox Pass 感應模組，走向大門就開
+[*] [b]原版門與自建大門[/b]：柵欄門、雙開門、車庫門都能裝，也能自己蓋閘門、捲門與兩層樓大門
 [*] [b]真的車輛零件[/b]：原版與 MOD 車都能裝，換車照樣通行
 [*] [b]各門各自登記[/b]：只有登記的車開得了，感應距離、關門延遲、開關速度與門鎖各門自訂
-[*] [b]支援多種門[/b]：柵欄門、雙開門、車庫門與玩家建造的門
+[*] [b]和隊友共用[/b]：分享給陣營或安全屋，或加入共同管理者一起管理
 [*] [b]7 種外殼顏色[/b]：用原版油漆直接做出該色，或替現有的重新上色
 [*] [b]不撞也不夾[/b]：開不了的門提前提醒，門口有車或人不關門
 [/list]
-📖 [b]安裝讀頭、登記車輛、自建大門、每扇門設定、外殼顏色、取得方式與常見問題：[/b][url=https://steamcommunity.com/sharedfiles/filedetails/?id=3817842603]感應大門 Knox Pass MOD 完整說明：感應盒、讀頭與自動開門[/url]
+📖 [b]安裝讀頭、登記車輛、共同管理者、手錶感應模組、自建大門、每扇門設定、外殼顏色、取得方式與常見問題：[/b][url=https://steamcommunity.com/sharedfiles/filedetails/?id=3817842603]感應大門 Knox Pass MOD 完整說明：感應盒、讀頭與自動開門[/url]
 
 [h2]🔗 Minidoracat 全系列[/h2]
 其他作品都在[url=https://steamcommunity.com/sharedfiles/filedetails/?id=3809297109]Minidoracat 全系列收藏[/url]，依需求自選訂閱。
